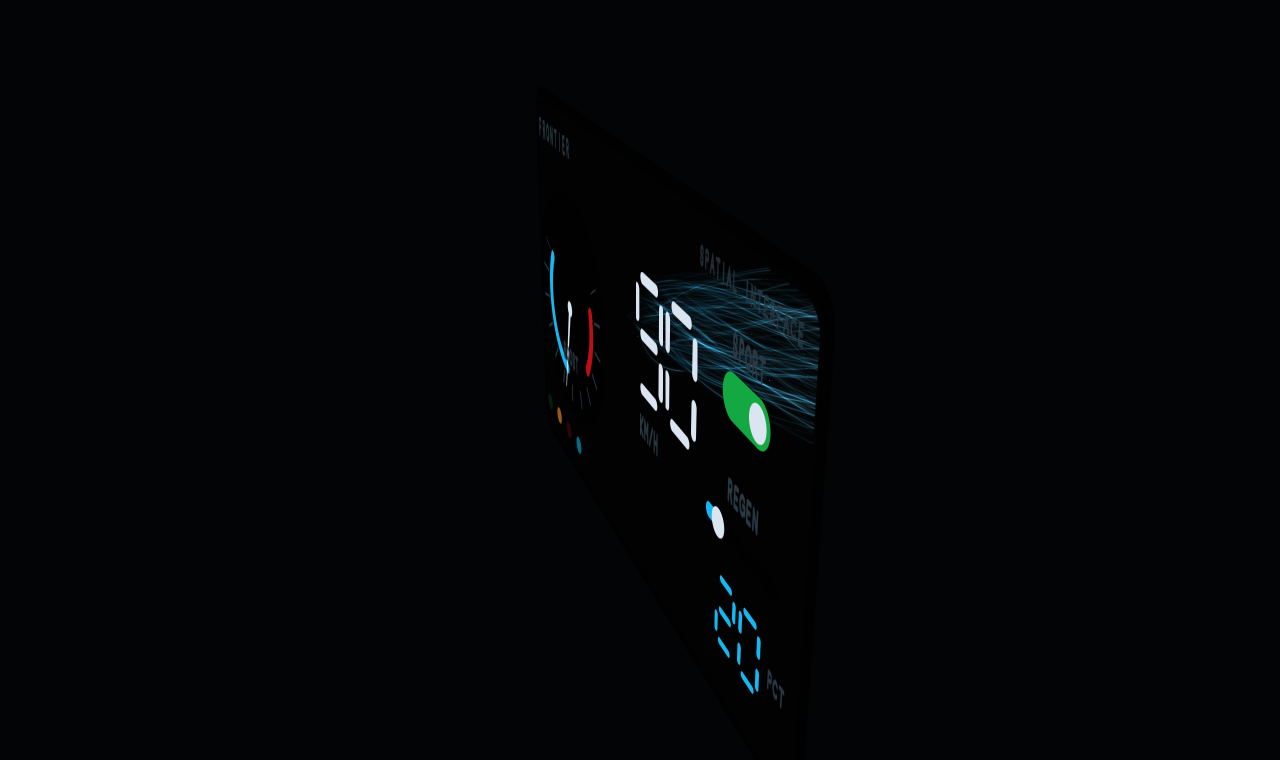
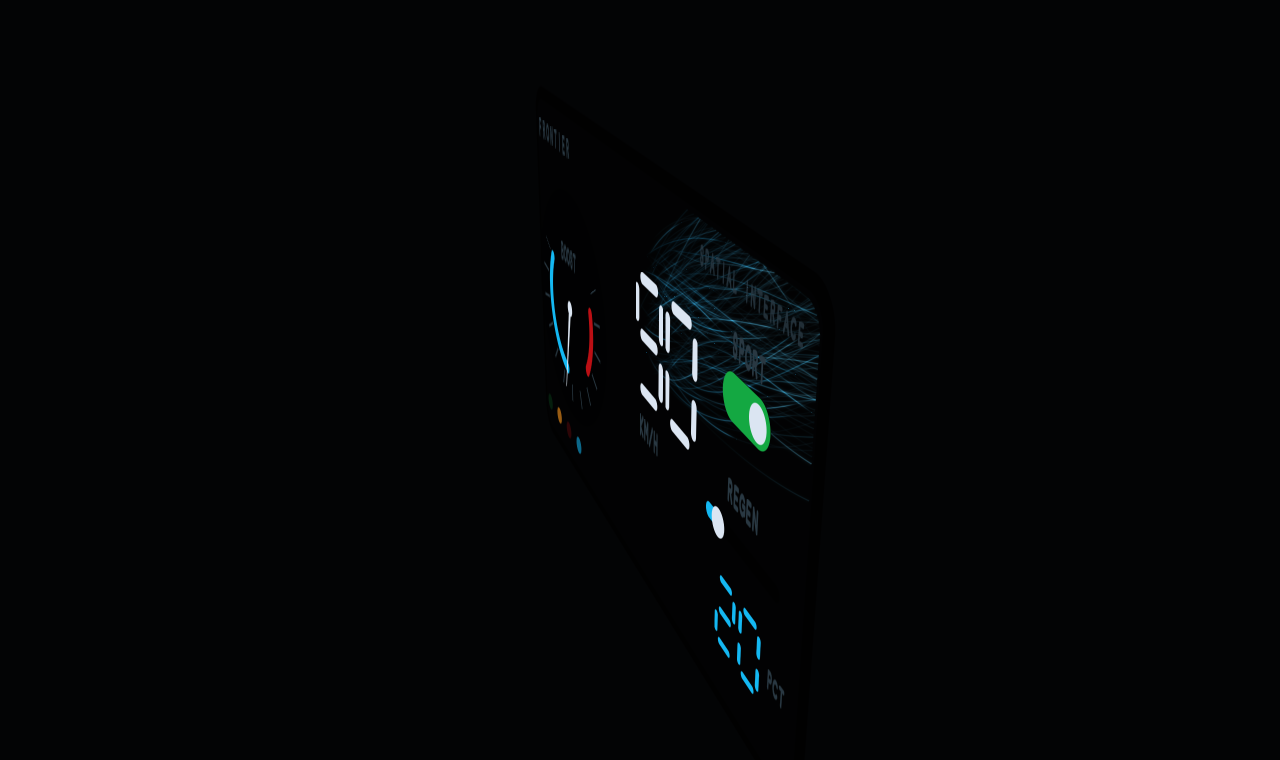
Make the fibre volume a slab, and move BOOST out of the needle's sweep
fbBezier scatters on a disc perpendicular to the axis, so one spread set both
perpendicular extents at once. Behind a tablet that is wrong: there is a
hundred and twenty millimetres of height to fill and about thirty of depth
before a strand is through the glass. The two fought, and the fight is why the
Live rung was a band across the middle while Field covered the whole face -
raising spread to fill the height pushed strands out the front, which the hull
bound caught, so spread came down and the band was the price.

The cross-section is now shaped in fbPanel: lift x1.70, depth x0.55. fbBezier
stays the editor's verbatim; fbPanel already existed because a fibre in a panel
is not a fibre in a scene. With depth squashed, spread went back up to 1.1 and
amplitude to 1.5, and the volume fills the face while sitting FURTHER behind
the glass than before. CheckHud carries both gains through the hull bound and
refuses to let them collapse back to a cylinder.

BOOST was below the hub - exactly where the needle sweeps, because the dial
opens at the top. It is now in the opening.

Withdrawn: the claim that the seven-segment bars do not meet. Measured on a
zoomed still the tips are 0.4 mm apart on the diagonal - mitred corners, which
is what a seven-segment face is. Render it large before calling it broken.

CheckHud PASS 127.

Changed region(s): [[0.5, 0.3026, 0.6562, 0.5447], [0.4375, 0.4539, 0.4688, 0.4842], [0.4375, 0.3329, 0.4688, 0.3632]]

diff --git a/Experimental/SpatialHud/js/fibres.js b/Experimental/SpatialHud/js/fibres.js
@@ -52,7 +52,7 @@ export const StreakPreset = {
   shape: 'streak',
   strands: 150, segments: 56, seed: 11, loopSeconds: 12,
   scale: 0.033,                   // [m per curve unit] 12 curve units -> 0.40 m, just under the face
-  length: 12, spread: 0.9, amplitude: 1.3, frequency: 1,
+  length: 12, spread: 1.1, amplitude: 1.5, frequency: 1,
   thickness: 1.5, taper: 0.6,
   intensity: 1.15, halo: 0.12, baseline: 0.1,
   window: 0.55, windowCycles: 1,
@@ -74,6 +74,23 @@ export const StreakPreset = {
   direction: [1.0, -0.10, 0.22],                        // curve space
   depthFade: 0.110,                                     // [m] e-folding distance behind the glass
   glassFade: 0.015,                                     // [m] band in which a strand dims into the glass
+
+  // 🔴 THE VOLUME BEHIND A PANEL IS A SLAB, NOT A CYLINDER.
+  //
+  //    fbBezier scatters its root and reach on a DISC perpendicular to the axis, so one `spread`
+  //    sets the extent in both perpendicular directions at once. In a scene that is right. Behind
+  //    a tablet it is not: the volume has a hundred and twenty millimetres of height to fill and
+  //    perhaps thirty of depth before a strand is through the glass. With one number the two fight,
+  //    and the fight is what kept the Live rung to a narrow band across the middle while the Field
+  //    rung covered the whole face — raising spread to fill the height pushed strands out the
+  //    front, which is exactly what the hull bound caught the first time.
+  //
+  //    So the cross-section is shaped where the curve meets the PANEL rather than in the curve: the
+  //    disc is stretched along panel up and squashed along panel depth. fbBezier stays the
+  //    editor's, verbatim; fbPanel was already the function that exists because a fibre in a panel
+  //    is not a fibre in a scene, and this is the same thought.
+  liftGain: 1.70,                                       // [-] panel up, where there is room
+  depthGain: 0.55,                                      // [-] panel depth, where there is not
 };
 
 export const FibreFloats = 108;                         // 27 vec4s
@@ -117,7 +134,7 @@ export function packFibre(out, preset, view) {
   out.set(view.rows[2], 24 * 4);
   // The clip: the face's rounded rectangle, and the depth fade.
   put(25, PanelHalfWidth - 0.012, PanelHalfHeight - 0.012, 0.014, preset.depthFade);
-  put(26, preset.glassFade, 0, 0, 0);
+  put(26, preset.glassFade, preset.liftGain, preset.depthGain, 0);
   return out;
 }
 
@@ -203,7 +220,9 @@ fn fbBezier(s : f32, id : f32) -> vec3f {
 // world up; here it goes to panel up, and lateral goes to DEPTH — which is what puts the strands
 // into a volume behind the glass instead of scattering them across the face.
 fn fbPanel(local : vec3f) -> vec3f {
-  return FB.org.xyz + vec3f(local.x, local.z, local.y) * FB.org.w;
+  // The disc fbBezier scattered perpendicular to the axis becomes a SLAB here: stretched along
+  // panel up, squashed along panel depth. See the note beside liftGain in the preset.
+  return FB.org.xyz + vec3f(local.x, local.z * FB.glass.y, local.y * FB.glass.z) * FB.org.w;
 }
 
 fn fbWorld(panel : vec3f) -> vec3f {

diff --git a/Experimental/SpatialHud/js/layout.js b/Experimental/SpatialHud/js/layout.js
@@ -187,7 +187,10 @@ export function constructHudLayout() {
   }));
   structure.attach(handles.needle, gauge);
 
-  text(structure, gauge, 'BOOST', { x: 0, y: -GaugeRadius * 0.52, z: Forward,
+  // 🔴 ABOVE the hub, not below it. kArcStart/kArcSweep open the dial at the TOP (150 deg round
+  //    through the bottom to 30 deg), so the needle sweeps the lower half and a label under the hub
+  //    is a label the needle draws through. The opening is the one place on a dial nothing moves.
+  text(structure, gauge, 'BOOST', { x: 0, y: GaugeRadius * 0.54, z: Forward,
                                     size: 0.0105, align: 'centre', palette: Slot.MarkingMute, rank: 8 });
 
   // ── middle band: the number you are looking for ────────────────────────────────────────────────

diff --git a/Docs/SpatialHud.md b/Docs/SpatialHud.md
@@ -184,6 +184,33 @@ simply visible from behind, which is the same mistake wearing different clothes.
 `Stills/Grazing.png` is the angle that exposed it. `CheckHud` pins the clip **site**, not just its
 presence, so nobody quietly puts it back on the strand.
 
+## 🔴 The volume behind a panel is a slab, not a cylinder
+
+`fbBezier` scatters its root and reach on a **disc** perpendicular to the axis, so one `spread`
+sets the extent in both perpendicular directions at once. In a scene that is right. Behind a
+tablet it is not: the volume has ~120 mm of height to fill and perhaps 30 mm of depth before a
+strand is through the glass.
+
+With one number the two fight, and that fight is what kept the Live rung to a narrow band across
+the middle while the Field rung covered the whole face. Raising `spread` to fill the height pushed
+strands out the front — which is precisely what the hull bound caught the first time, so the
+response then was to lower `spread`, and the band was the price.
+
+The cross-section is now shaped where the curve meets the **panel** rather than in the curve:
+
+```
+fbPanel:  panel = org + vec3(along, lift * liftGain, lateral * depthGain) * scale
+          liftGain 1.70      depthGain 0.55
+```
+
+`fbBezier` stays the editor's, verbatim. `fbPanel` was already the function that exists *because a
+fibre in a panel is not a fibre in a scene*, and this is the same thought. With depth squashed,
+`spread` could go back up (0.9 → 1.1) and `amplitude` with it (1.3 → 1.5), and the volume now
+fills the face while sitting further behind the glass than it did before.
+
+`CheckHud` holds the two gains apart (`liftGain > 2 × depthGain`) and carries them through the
+hull bound, so the bound still bounds the thing that is actually drawn.
+
 ## 🔴 A finding about the native sort key
 
 `ComposeInterfaceSortKey` puts transparency in the **top** bit, so every transparent figure submits
@@ -271,18 +298,17 @@ browser console for a module that failed to load.
 
 Three things the first CPU stills exposed, none of which any numeric check could have caught:
 
-- **The seven-segment bars do not meet.** In `DistanceSegmentDigit` the horizontal arms are
-  `HalfW - Inset` long while the vertical bars sit at `±HalfW`, so a top bar stops about nine
-  millimetres short of the stroke it should join. The digits are *correct* — ` 90` is ` 90` — but
-  they read as loose bars rather than as numerals. The inset exists to stop adjacent bars merging at
-  the corners; it is being charged to the wrong axis.
-- **`BOOST` sits under the needle.** The label is at `y = -GaugeRadius * 0.52`, inside the dial,
-  which is where the needle sweeps at low readings. It wants to be below the dial's opening.
-- **The Live rung covers a band, not the face.** The fibre volume runs as a narrow ribbon across the
-  middle while the Field rung fills the whole panel. That is the hull bound doing its job — the
-  spread had to come down to keep strands behind the glass — but it means the two rungs do not read
-  as the same backdrop at two qualities. Widening wants more strands at a lower spread, not a bigger
-  hull.
+- ~~**The seven-segment bars do not meet.**~~ **Withdrawn — this was a misreading of a small
+  image.** Measured on a zoomed still, the capsule tips are about 0.4 mm apart on the diagonal: the
+  corners are *mitred*, which is what a seven-segment face is supposed to look like, and ` 90`
+  reads as ` 90`. The horizontal arms *are* about a quarter shorter than the gap between the
+  verticals, which makes the digits look slightly pinched at small sizes, but that is taste and not
+  a defect. **Render it large before calling it broken.**
+- ~~**`BOOST` sits under the needle.**~~ Fixed. It was below the hub, which is exactly where the
+  needle sweeps: `kArcStart`/`kArcSweep` open the dial at the **top** (150° round through the
+  bottom to 30°), so the lower half is the moving half. The label is now in the opening, the one
+  place on a dial where nothing moves.
+- ~~**The Live rung covers a band, not the face.**~~ Fixed by the slab, below.
 
 - Nothing is ported to C++ yet. The order would be: the fibre stages as a second pipeline beside the
   interface raster (they are already the editor's own code, which the engine does not yet have at
